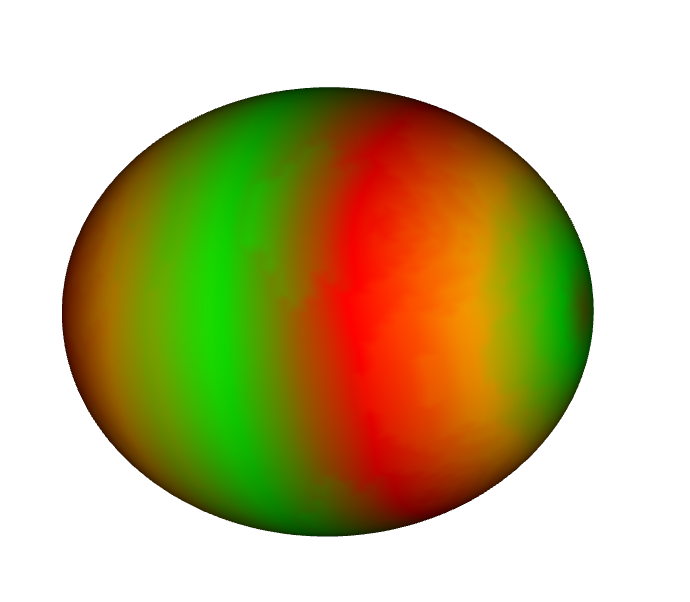
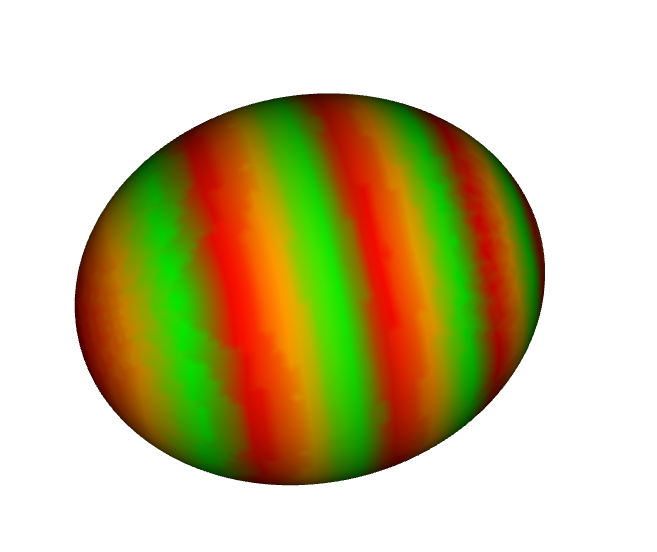
made more stripes

diff --git a/_posts/2015-04-05-easteregg.md b/_posts/2015-04-05-easteregg.md
@@ -27,7 +27,7 @@ mD <- meshDist(egg,zero,sign=F,steps=50,rampcolors = rainbow(6))
 
 ###here is a striped version
 
-render(mD,steps=60,rampcolors = rep(c("red","orange","green"),4))
+render(mD,steps=60,rampcolors = rep(c("red","orange","green"),10))
 
 ```
 <figure class="center">
